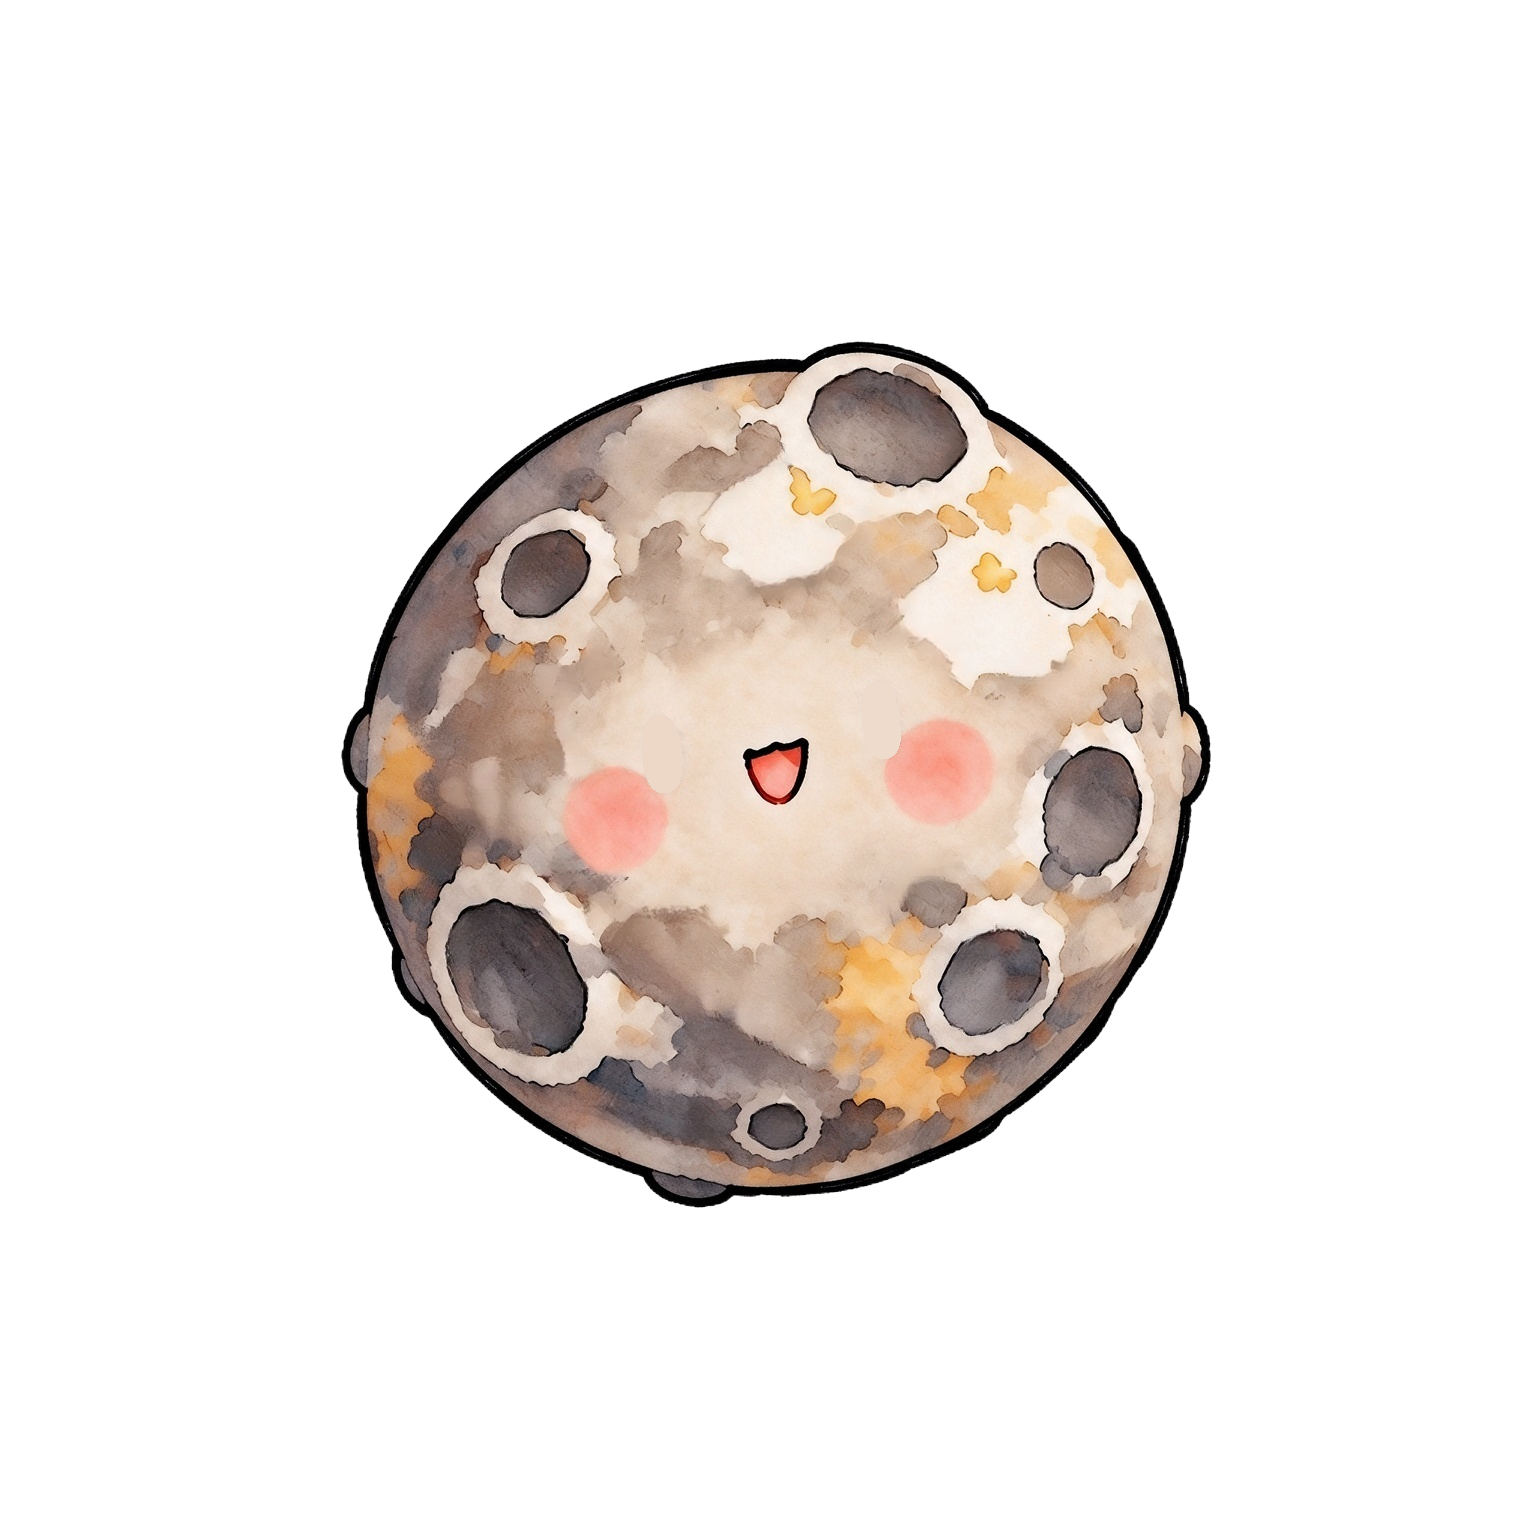
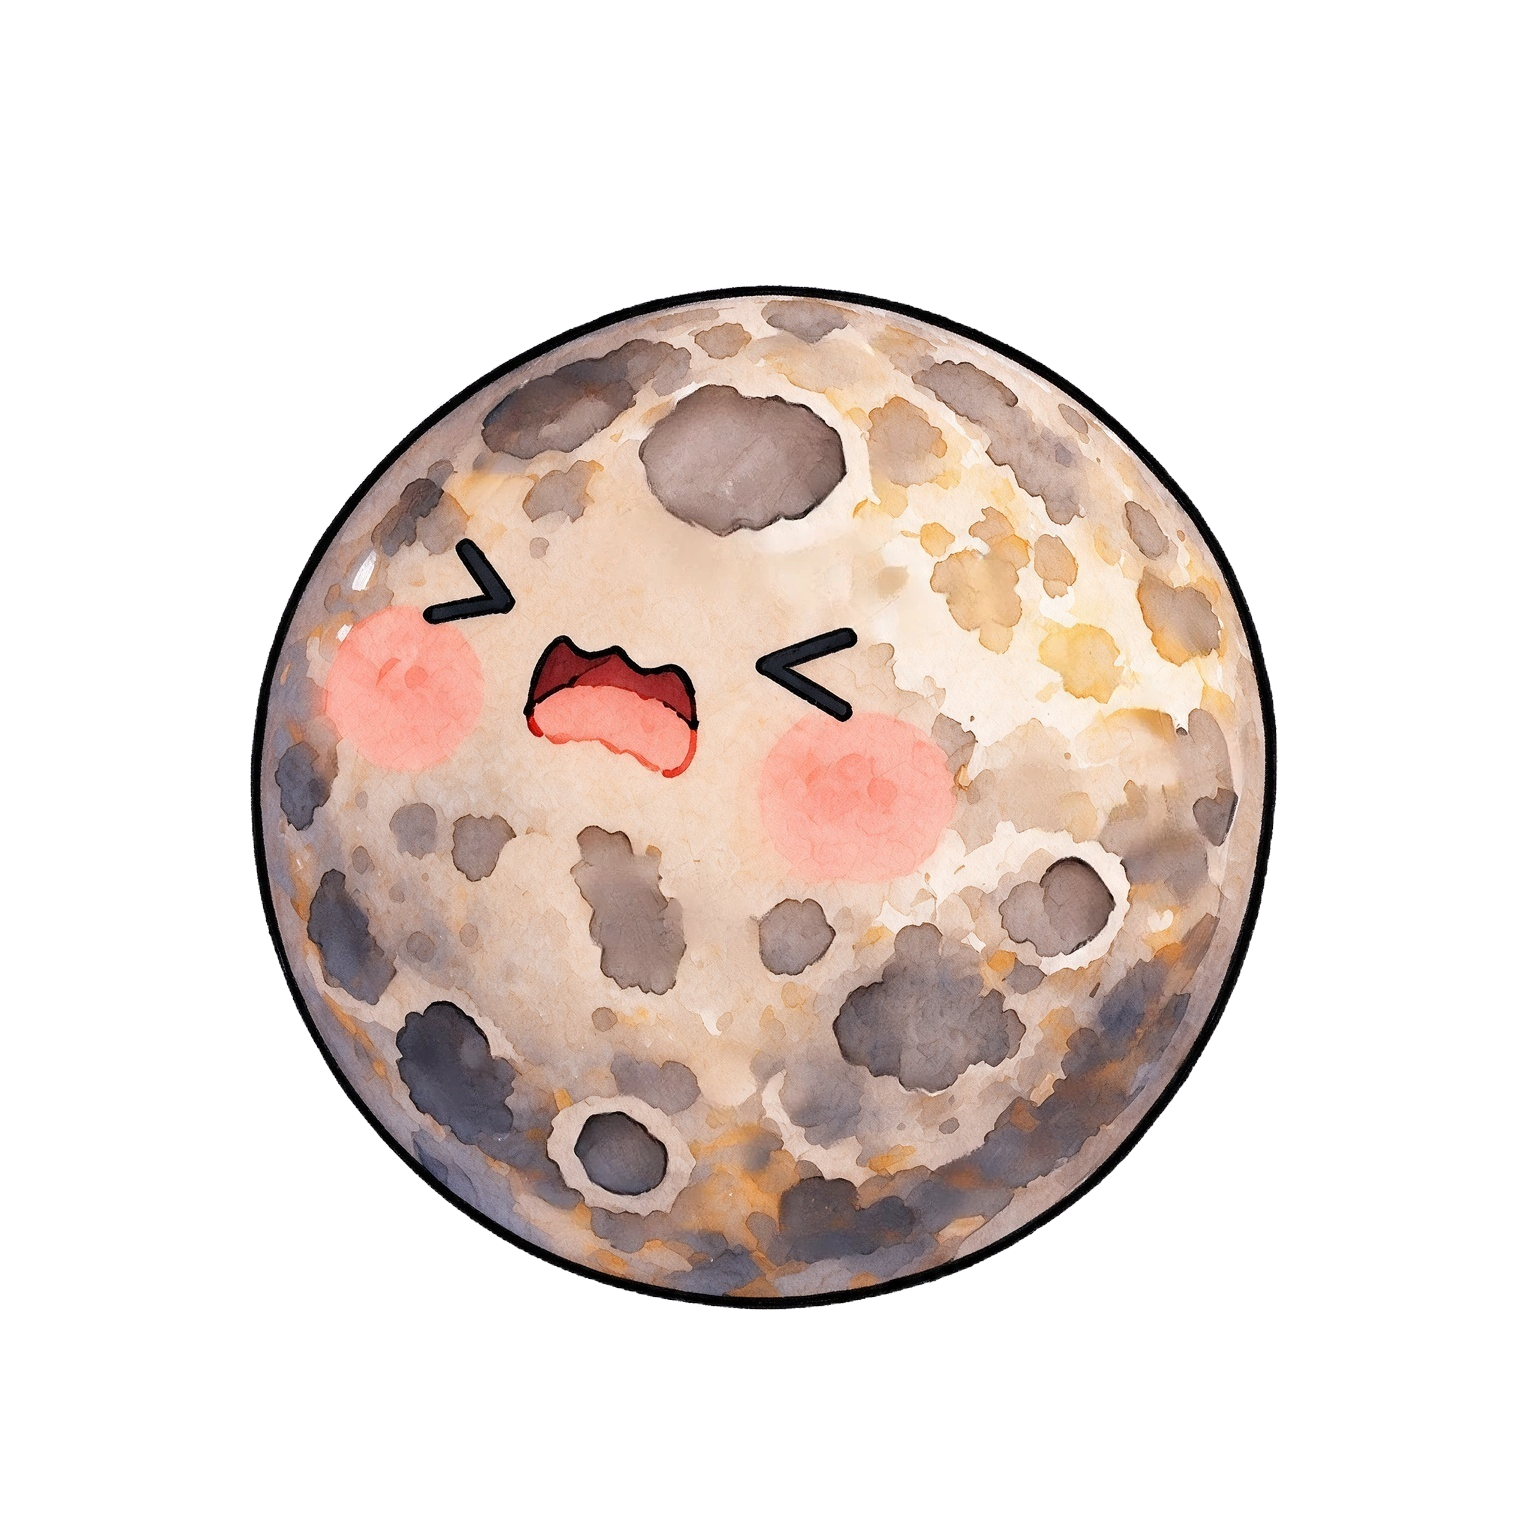
feat(水星): 更换重绘本体并增加风扇与墨镜装饰
水星重绘，新增风扇与墨镜两件装饰。
- viewBox 按新的墨迹包络重算，五官随本体烘焙固定
- 装饰挂在独立图层，便于单独驱动

Changed region(s): [[0.1562, 0.1875, 0.8438, 0.875]]

diff --git a/src/characters/mercury/scene.js b/src/characters/mercury/scene.js
@@ -1,11 +1,11 @@
 /**
  * SVG 场景：水星角色的图层结构（唯一一份）。
  *
- * 1) 绘制顺序与 DOM 顺序一致，后声明者在上。自下而上：本体（含烘死的陨石坑 / 嘴 / 腮红）
- *    → 三态眼。本体与眼睛不拆前后层：`#mercuryEyes` 是 `#mercuryBodyWrap` 的子节点。
+ * 1) 绘制顺序与 DOM 顺序一致，后声明者在上。自下而上：装饰·后 → 本体（含烘死的陨石坑 / 五官）
+ *    → 装饰·前。三个都是 `#mercuryBodyWrap` 的子节点。
  *
- * 2) 本体与三态眼都是 1536 画布，眼图是从本体上抠出来的（`_draft/_eyes.py`），
- *    内容已在画布上的正确位置，两层共用同一份 `CANVAS_T`（定义在 anim.js），无需对位修正。
+ * 2) 本体与装饰都是 1536 画布，装饰的落点写在 anim.js 的 `DECO`，
+ *    三层共用同一份 `CANVAS_T`（定义在 anim.js），无需对位修正。
  *
  * 3) 每帧写 transform 的只有两个组：
  *      #mercury          入场缩放。局部原点即画布中心，`scale` 原地生效
@@ -18,34 +18,38 @@
  *
  * ⚠ 下面整块是模板字符串：注释里不能出现反引号，也不能出现裸的 ${。改完必跑 `npm run build`。
  */
-import eye_closed from '../../assets/mercury/eye_closed.png';
-import eye_half from '../../assets/mercury/eye_half.png';
-import eye_open from '../../assets/mercury/eye_open.png';
+import deco_fan from '../../assets/mercury/deco_fan.png';
+import deco_sunglasses from '../../assets/mercury/deco_sunglasses.png';
 import mercury_base from '../../assets/mercury/mercury_base.png';
 
-import { BODY_C, CANVAS_T, ORIGIN, VIEW } from './anim.js';
+import { BODY_C, CANVAS_T, DECO, ORIGIN, VIEW } from './anim.js';
 
-const IMG = { eye_closed, eye_half, eye_open, mercury_base };
+const IMG = { deco_fan, deco_sunglasses, mercury_base };
+
+/* 装饰的附加变换：摆到画布坐标 (x, y)，再绕自身画布中心缩放 k、旋转 rot。 */
+const decoT = ({ x, y, k, rot }) =>
+  `translate(${x} ${y}) rotate(${rot}) scale(${k}) translate(-768 -768)`;
 
 export const SVG_SCENE = `
     <svg id="mercuryScene" viewBox="${VIEW.minX} ${VIEW.minY} ${VIEW.w} ${VIEW.h}" role="img"
-         aria-label="会呼吸、会随机眨眼、可悬停的水星角色">
+         aria-label="会呼吸、可悬停的水星角色">
 
       <g transform="translate(${ORIGIN.x} ${ORIGIN.y})">
         <g id="mercury">
 
           <g id="mercuryBodyWrap">
+            <g id="mercuryDecoBack" data-name="装饰·后" transform="${CANVAS_T}"></g>
+
             <image id="mercuryBody" data-name="本体" href="${IMG.mercury_base}" x="0" y="0" width="1536" height="1536"
                    transform="${CANVAS_T}" />
 
-            <!-- 三态眼：各一层，靠 opacity 交叉淡入，初始为「睁」。 -->
-            <g id="mercuryEyes" data-name="眼睛" transform="${CANVAS_T}">
-              <image id="mercuryEyeClosed" data-name="眼睛·闭" href="${IMG.eye_closed}" x="0" y="0" width="1536" height="1536"
-                     opacity="0" />
-              <image id="mercuryEyeHalf" data-name="眼睛·半闭" href="${IMG.eye_half}" x="0" y="0" width="1536" height="1536"
-                     opacity="0" />
-              <image id="mercuryEyeOpen" data-name="眼睛·睁" href="${IMG.eye_open}" x="0" y="0" width="1536" height="1536"
-                     opacity="1" />
+            <g id="mercuryDecoFront" data-name="装饰·前" transform="${CANVAS_T}">
+              <g id="mercuryDecoFan" data-name="装饰·风扇" transform="${decoT(DECO.fan)}">
+                <image href="${IMG.deco_fan}" x="0" y="0" width="1536" height="1536" />
+              </g>
+              <g id="mercuryDecoSunglasses" data-name="装饰·墨镜" transform="${decoT(DECO.sunglasses)}">
+                <image href="${IMG.deco_sunglasses}" x="0" y="0" width="1536" height="1536" />
+              </g>
             </g>
           </g>
 

diff --git a/src/characters/mercury/anim.js b/src/characters/mercury/anim.js
@@ -4,42 +4,51 @@
  * 纯逻辑、不碰 DOM：姿态由 `core/pose.js` 的状态机给出，本文件只声明几何与呼吸参数，
  * 逐帧写进 DOM 由 `core/apply.js` 负责。
  *
- * 素材几何：`mercury_base.png` 与 `eye_{open,half,closed}.png` 都是 1536 画布，
- * 眼图是从本体上抠出来的，两层共用同一份 `CANVAS_T`。见 `_draft/_eyes.py`。
+ * 素材几何：`mercury_base.png` 是 1536 画布，五官烘死（不眨眼）；
+ * 装饰 `deco_fan.png` / `deco_sunglasses.png` 同画布，落点见下面的 `DECO`。
  */
 import { createPose } from '../../core/pose.js';
 
 /** viewBox 的左上角（局部坐标）与尺寸。由所有动作的包络取并集，再留边距。 */
-export const VIEW = { minX: -182, minY: -182, w: 364, h: 364 };
+export const VIEW = { minX: -170, minY: -198, w: 340, h: 376 };
 
 /* 素材画布（1536）→ 局部单位。 */
-const K = 0.3468;
+const K = 0.2847;
 
-/* 素材画布中心。本体与三态眼都按它对齐。 */
+/* 素材画布中心。本体与装饰都按它对齐。 */
 const CANVAS_C = 768;
 
 /* 素材球体直径（px，1536 画布）。 */
-const BALL_PX = 842;
+const BALL_PX = 1026;
 
-/** 局部原点（素材画布中心）在 viewBox 里的落点 = viewBox 中心 − 墨迹中心。 */
-export const ORIGIN = { x: -1.561, y: -1.734 };
+/** 局部原点（素材画布中心）在 viewBox 里的落点。 */
+export const ORIGIN = { x: 2.761, y: -5.953 };
 
-/* 呼吸缩放的支点 = 球心（素材坐标 (778, 778)）。 */
-export const BODY_C = { x: K * (778 - CANVAS_C), y: K * (778 - CANVAS_C) };
+/* 呼吸缩放的支点 = 球心（素材坐标 (765, 795)）。 */
+export const BODY_C = { x: K * (765 - CANVAS_C), y: K * (795 - CANVAS_C) };
 
 /** 球体在局部单位下的直径。`registry.js` 用它把球屏幕径换算成舞台宽。 */
 export const BALL_D = K * BALL_PX;
 
-/** 素材画布（1536）→ 局部单位 的公共变换。本体与三态眼都用它。 */
+/** 素材画布（1536）→ 局部单位 的公共变换。本体与装饰都用它。 */
 export const CANVAS_T = `scale(${K}) translate(-${CANVAS_C} -${CANVAS_C})`;
+
+/* ---------- 装饰 ---------- */
+
+/** 装饰落点：`x` / `y` 是素材画布中心在画布坐标里的位置，`k` 绕自身中心缩放，`rot` 绕自身中心转（度）。
+ *  `layer` 是相对本体的层级，`back` 压在本体下、`front` 浮在本体上。 */
+export const DECO = {
+  fan: { x: 329.1, y: 1071.8, k: 0.302, rot: 0, layer: 'front' },
+  sunglasses: { x: 803.2, y: 422.2, k: 0.573, rot: 9, layer: 'front' },
+};
 
 /* ---------- 动作参数 ---------- */
 
 /* 呼吸（本体）：周期 3.9 s，纵向为主。 */
 const BREATH = { dur: 3.9, amp: 0.014, lift: 3.2, wide: 0.46, phase: 2.4 };
 
-/* 悬停 / 按压 / 回弹 / 入场 / 眨眼：十颗一致，缺省值见 `core/pose.js` 与 `shared/blink.js`。 */
+/* 悬停 / 按压 / 回弹 / 入场：十颗一致，缺省值见 `core/pose.js` 与 `shared/intro.js`。 */
 
 export function createMercuryAnim(opts) {
-  return createPose({ ...opts, breath: BREATH, blink: true });
+  return createPose({ ...opts, breath: BREATH });
 }

diff --git a/src/characters/mercury/index.js b/src/characters/mercury/index.js
@@ -1,9 +1,11 @@
 /**
  * 水星角色：把动画写进 DOM。
  *
- *   scene.js  图层结构（静态，4 张原图：本体 + 三态眼）
+ *   scene.js  图层结构（静态，3 张原图：本体 + 风扇 + 墨镜）
  *   anim.js   动作参数与几何（姿态由 `core/pose.js` 给出）
  *   本文件    挂载入口：命中区选择器 + 把姿态写进 DOM 的 `setupPose`
+ *
+ * 五官烘死，不接眨眼。装饰在本体组里，跟着呼吸 / 悬停 / 按压一起动。
  *
  * 注入 SVG / 入场进度 / 指针输入 / 逐帧时钟 / 首帧 / destroy 都在 `core/character.js`。
  */
@@ -16,7 +18,7 @@ export const mount = defineCharacter({
   scene: SVG_SCENE,
   createAnim: createMercuryAnim,
   hit: '#mercuryHit',
-  setup: setupPose({ name: 'mercury', bodyC: BODY_C, eyes: true }),
+  setup: setupPose({ name: 'mercury', bodyC: BODY_C, eyes: false }),
 });
 
 export { BALL_D, BODY_C, ORIGIN, VIEW } from './anim.js';
